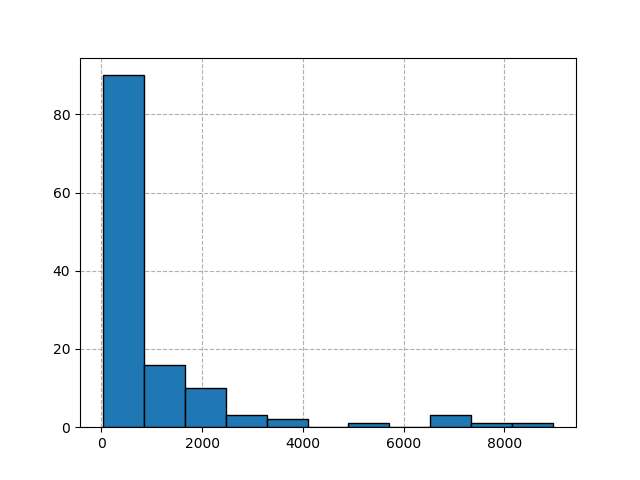
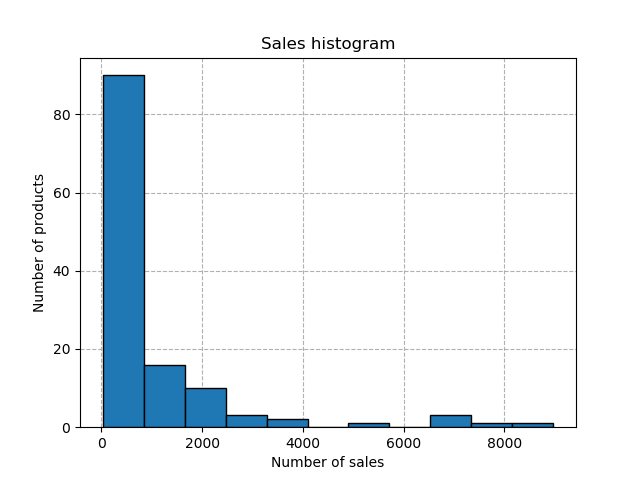
20201024 17:00

diff --git a/script/getBoxplot_by_years.py b/script/getBoxplot_by_years.py
@@ -1,0 +1,35 @@
+# _*_ coding: utf-8 _*_
+
+import pandas as pd
+import numpy as np
+import matplotlib.pyplot as plt
+import datetime as dt
+
+# 年毎の箱ひげ図を生成するスクリプト
+
+data = pd.read_csv("../data/raw_data.csv", index_col='id')
+data['date'] = pd.to_datetime(data['date'])
+
+thisYear = int(data['date'].min().strftime('%Y'))
+
+data_concat = None
+while True:
+    data_by_y = data[(data['date'] >= dt.datetime(thisYear,1,1)) & (data['date'] <= dt.datetime(thisYear,12,31))]
+    if(thisYear > int(data['date'].max().strftime('%Y'))):
+        break
+
+    data_by_y= data_by_y.rename(columns={'sales' : str(thisYear)})
+    data_by_y = data_by_y[str(thisYear)]
+    
+    fig, axes = plt.subplots()
+    plt.ylim([0,10000])
+    plt.title('Box plot of sales in ' + str(thisYear))
+    plt.xlabel('Term')
+    plt.ylabel('Number of sales')
+    plt.boxplot(data_by_y, showmeans=True)
+    axes.set_xticklabels([thisYear])
+    plt.grid(linestyle='dashed')
+    plt.savefig("../fig/Boxplot_" + str(thisYear) + ".png")
+    
+    data_concat = pd.concat([data_concat, data_by_y], axis=1)
+    thisYear = thisYear + 1

diff --git a/script/getHistogram.py b/script/getHistogram.py
@@ -8,17 +8,21 @@ import datetime as dt
 data = pd.read_csv("../data/raw_data.csv", index_col='id')
 data['date'] = pd.to_datetime(data['date'])
 
+# 通常スケールのヒストグラムを生成する処理
+# bin数はデータ数の平方根
 plt.rcParams['axes.axisbelow'] = True
 plt.grid(linestyle='dashed')
 plt.hist(data['sales'], bins=int(np.sqrt(len(data))), ec='black')
-plt.savefig("../fig/Histogram.png")
 
 plt.title("Sales histogram")
 plt.ylabel("Number of products")
-plt.xlabel("Number of sales with log scale")
+plt.xlabel("Number of sales")
+plt.savefig("../fig/Histogram.png")
 
 plt.close()
 
+# logスケールのヒストグラムを生成する処理
+# bin数はデータ数の平方根
 plt.rcParams['axes.axisbelow'] = True
 plt.grid(linestyle='dashed')
 plt.hist(data['sales'], bins=np.logspace(1,5,int(np.sqrt(len(data)))), ec='black')
@@ -26,6 +30,5 @@ plt.gca().set_xscale("log")
 
 plt.title("Sales histogram (log scale)")
 plt.ylabel("Number of products")
-plt.xlabel("Number of sales with log scale")
-
+plt.xlabel("Number of sales (log scale)")
 plt.savefig("../fig/Histogram_log.png")

diff --git a/script/getBoxplot.py b/script/getBoxplot.py
@@ -1,0 +1,27 @@
+# _*_ coding: utf-8 _*_
+
+import pandas as pd
+import numpy as np
+import matplotlib.pyplot as plt
+import datetime as dt
+
+# 全期間の箱ひげ図を生成するスクリプト
+
+data = pd.read_csv("../data/raw_data.csv", index_col='id')
+data['date'] = pd.to_datetime(data['date'])
+
+# 箱ひげ図
+fig, axes = plt.subplots()
+plt.boxplot(data['sales'], showmeans=True)
+plt.title('Box plot of sales')
+plt.xlabel('Term')
+plt.ylabel('Number of sales')
+
+# 表示範囲の設定
+# 外れ値が大きすぎる場合箱が隅に追いやられてしまうので使うこと
+plt.ylim([0,10000])
+
+axes.set_xticklabels([str(data['date'].min().strftime('%Y/%m/%d')) + " ~ " + str(data['date'].max().strftime('%Y/%m/%d'))])
+plt.grid(linestyle='dashed')
+
+plt.savefig("../fig/Boxplot.png")

diff --git a/script/getDescribe_by_years.py b/script/getDescribe_by_years.py
@@ -8,13 +8,17 @@ import datetime as dt
 data = pd.read_csv("../data/raw_data.csv", index_col='id')
 data['date'] = pd.to_datetime(data['date'])
 
-# このスクリプトは年毎の要約統計量を得るためのものです．
-thisYear = dt.date.today().year
+thisYear = int(data['date'].max().strftime('%Y'))
+
+# 空データを生成する
 with open('../log/getDescribe_by_years.txt', mode='w') as f:
     	print("")
+
+# このスクリプトは年毎の要約統計量を得るためのものです．
 while True:
     data_by_y = data[(data['date'] >= dt.datetime(thisYear,1,1)) & (data['date'] <= dt.datetime(thisYear,12,31))]
-    if(data_by_y.empty):
+    
+    if(thisYear < int(data['date'].min().strftime('%Y'))):
         break
     print(str(thisYear) + "年:")
     print(data_by_y.describe())
